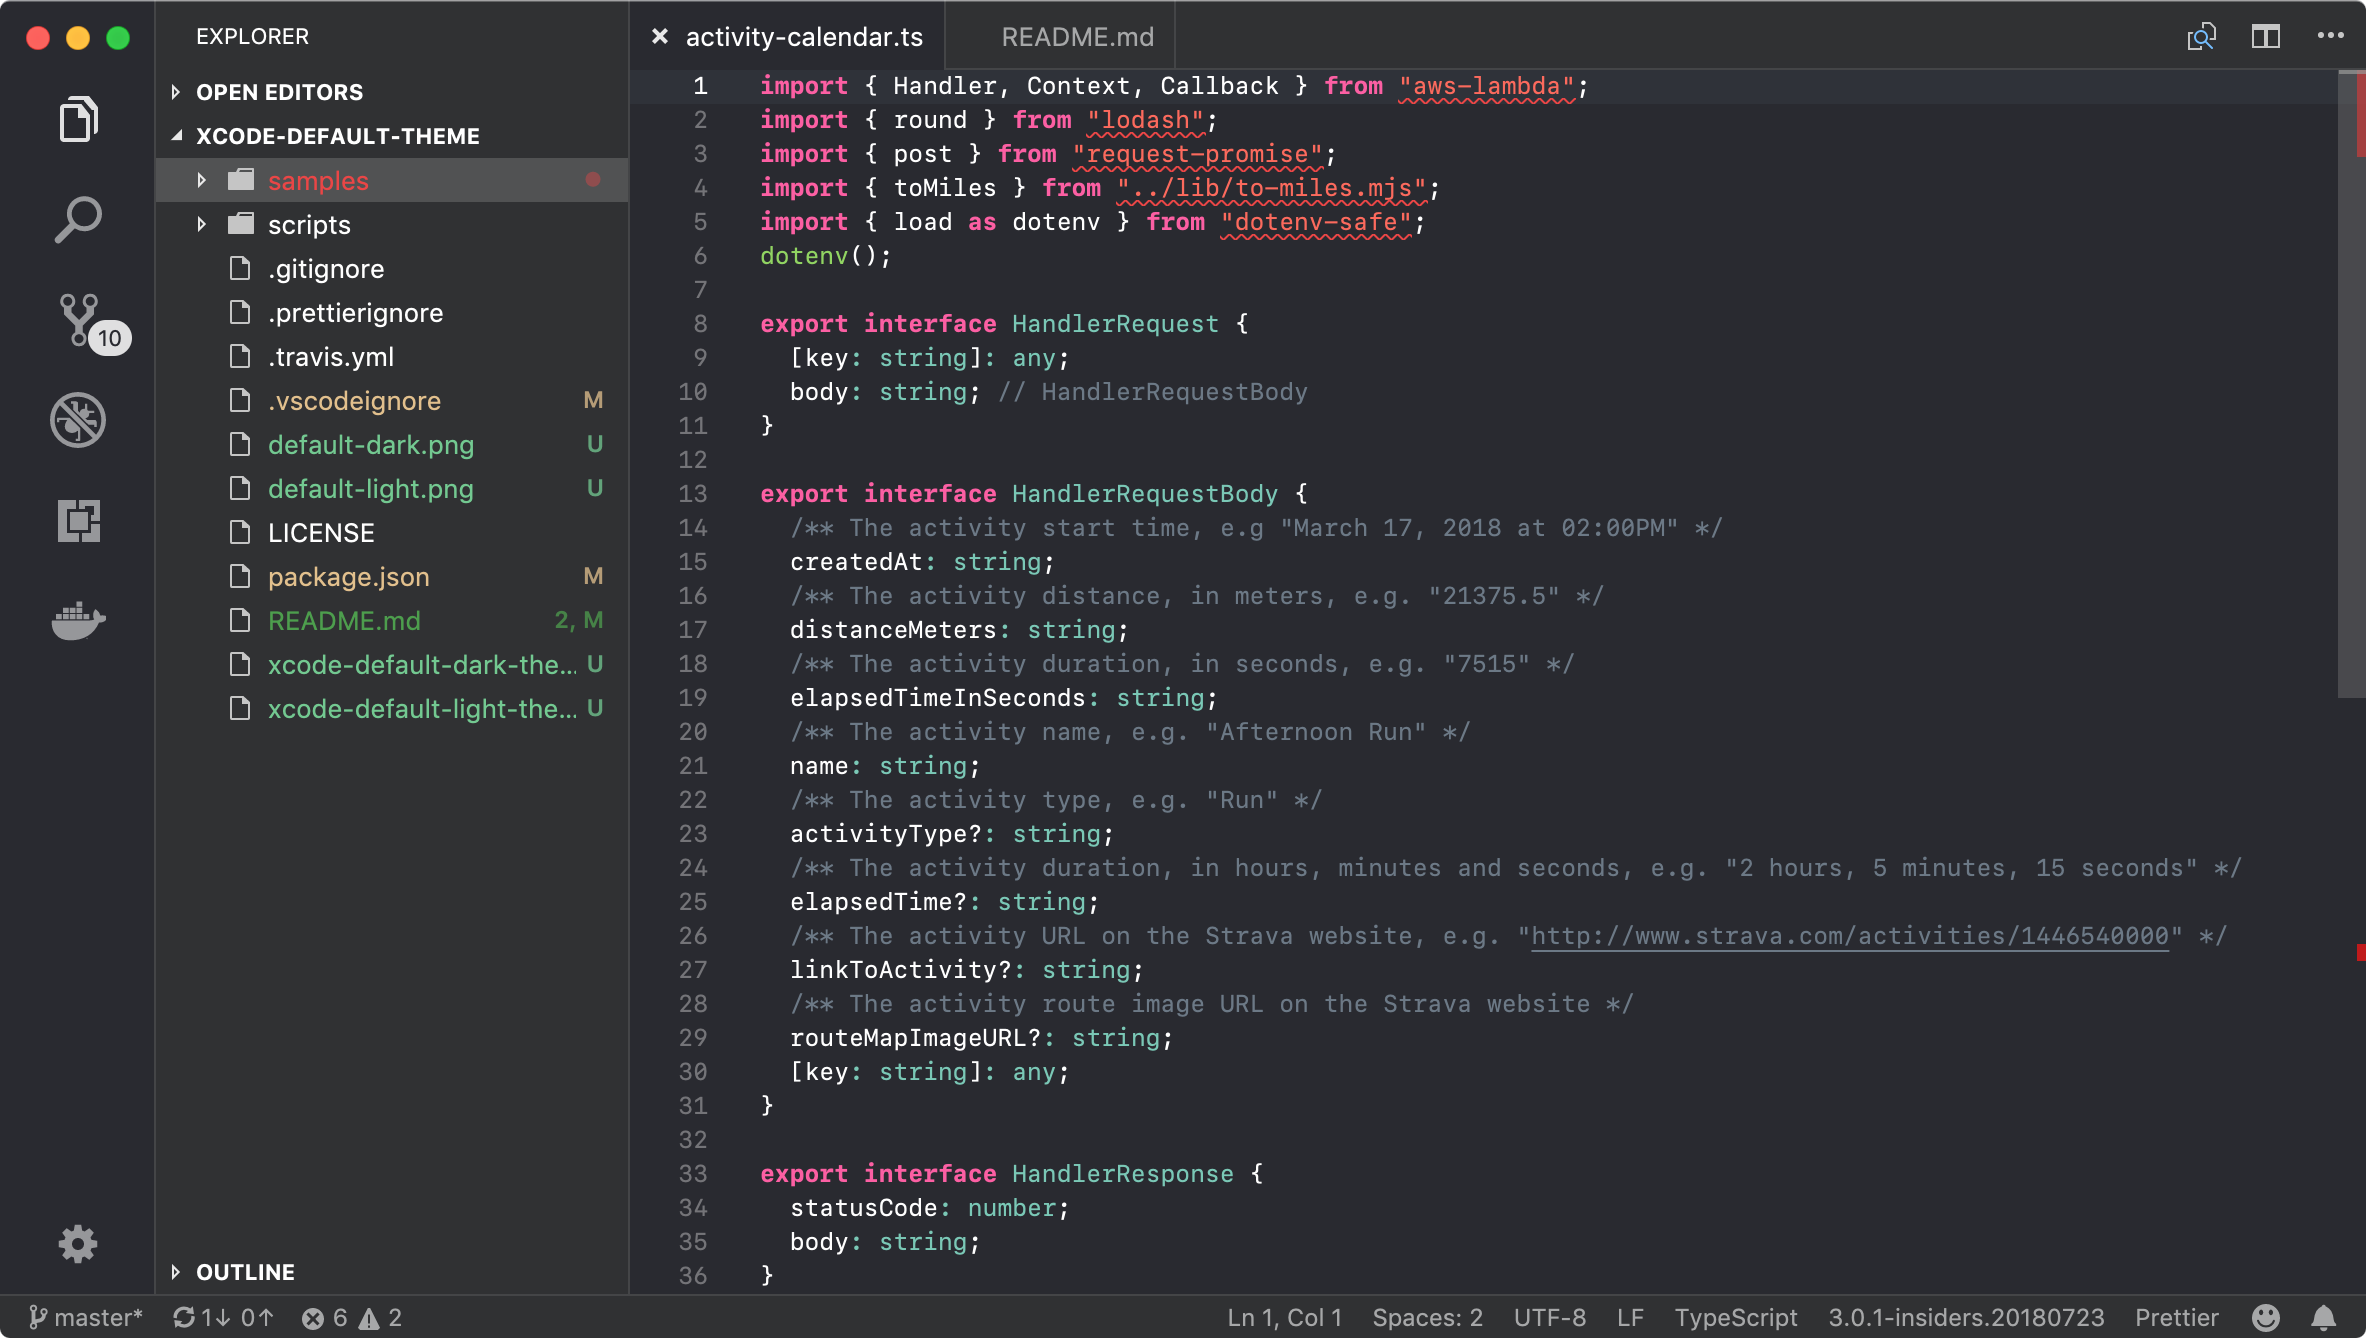
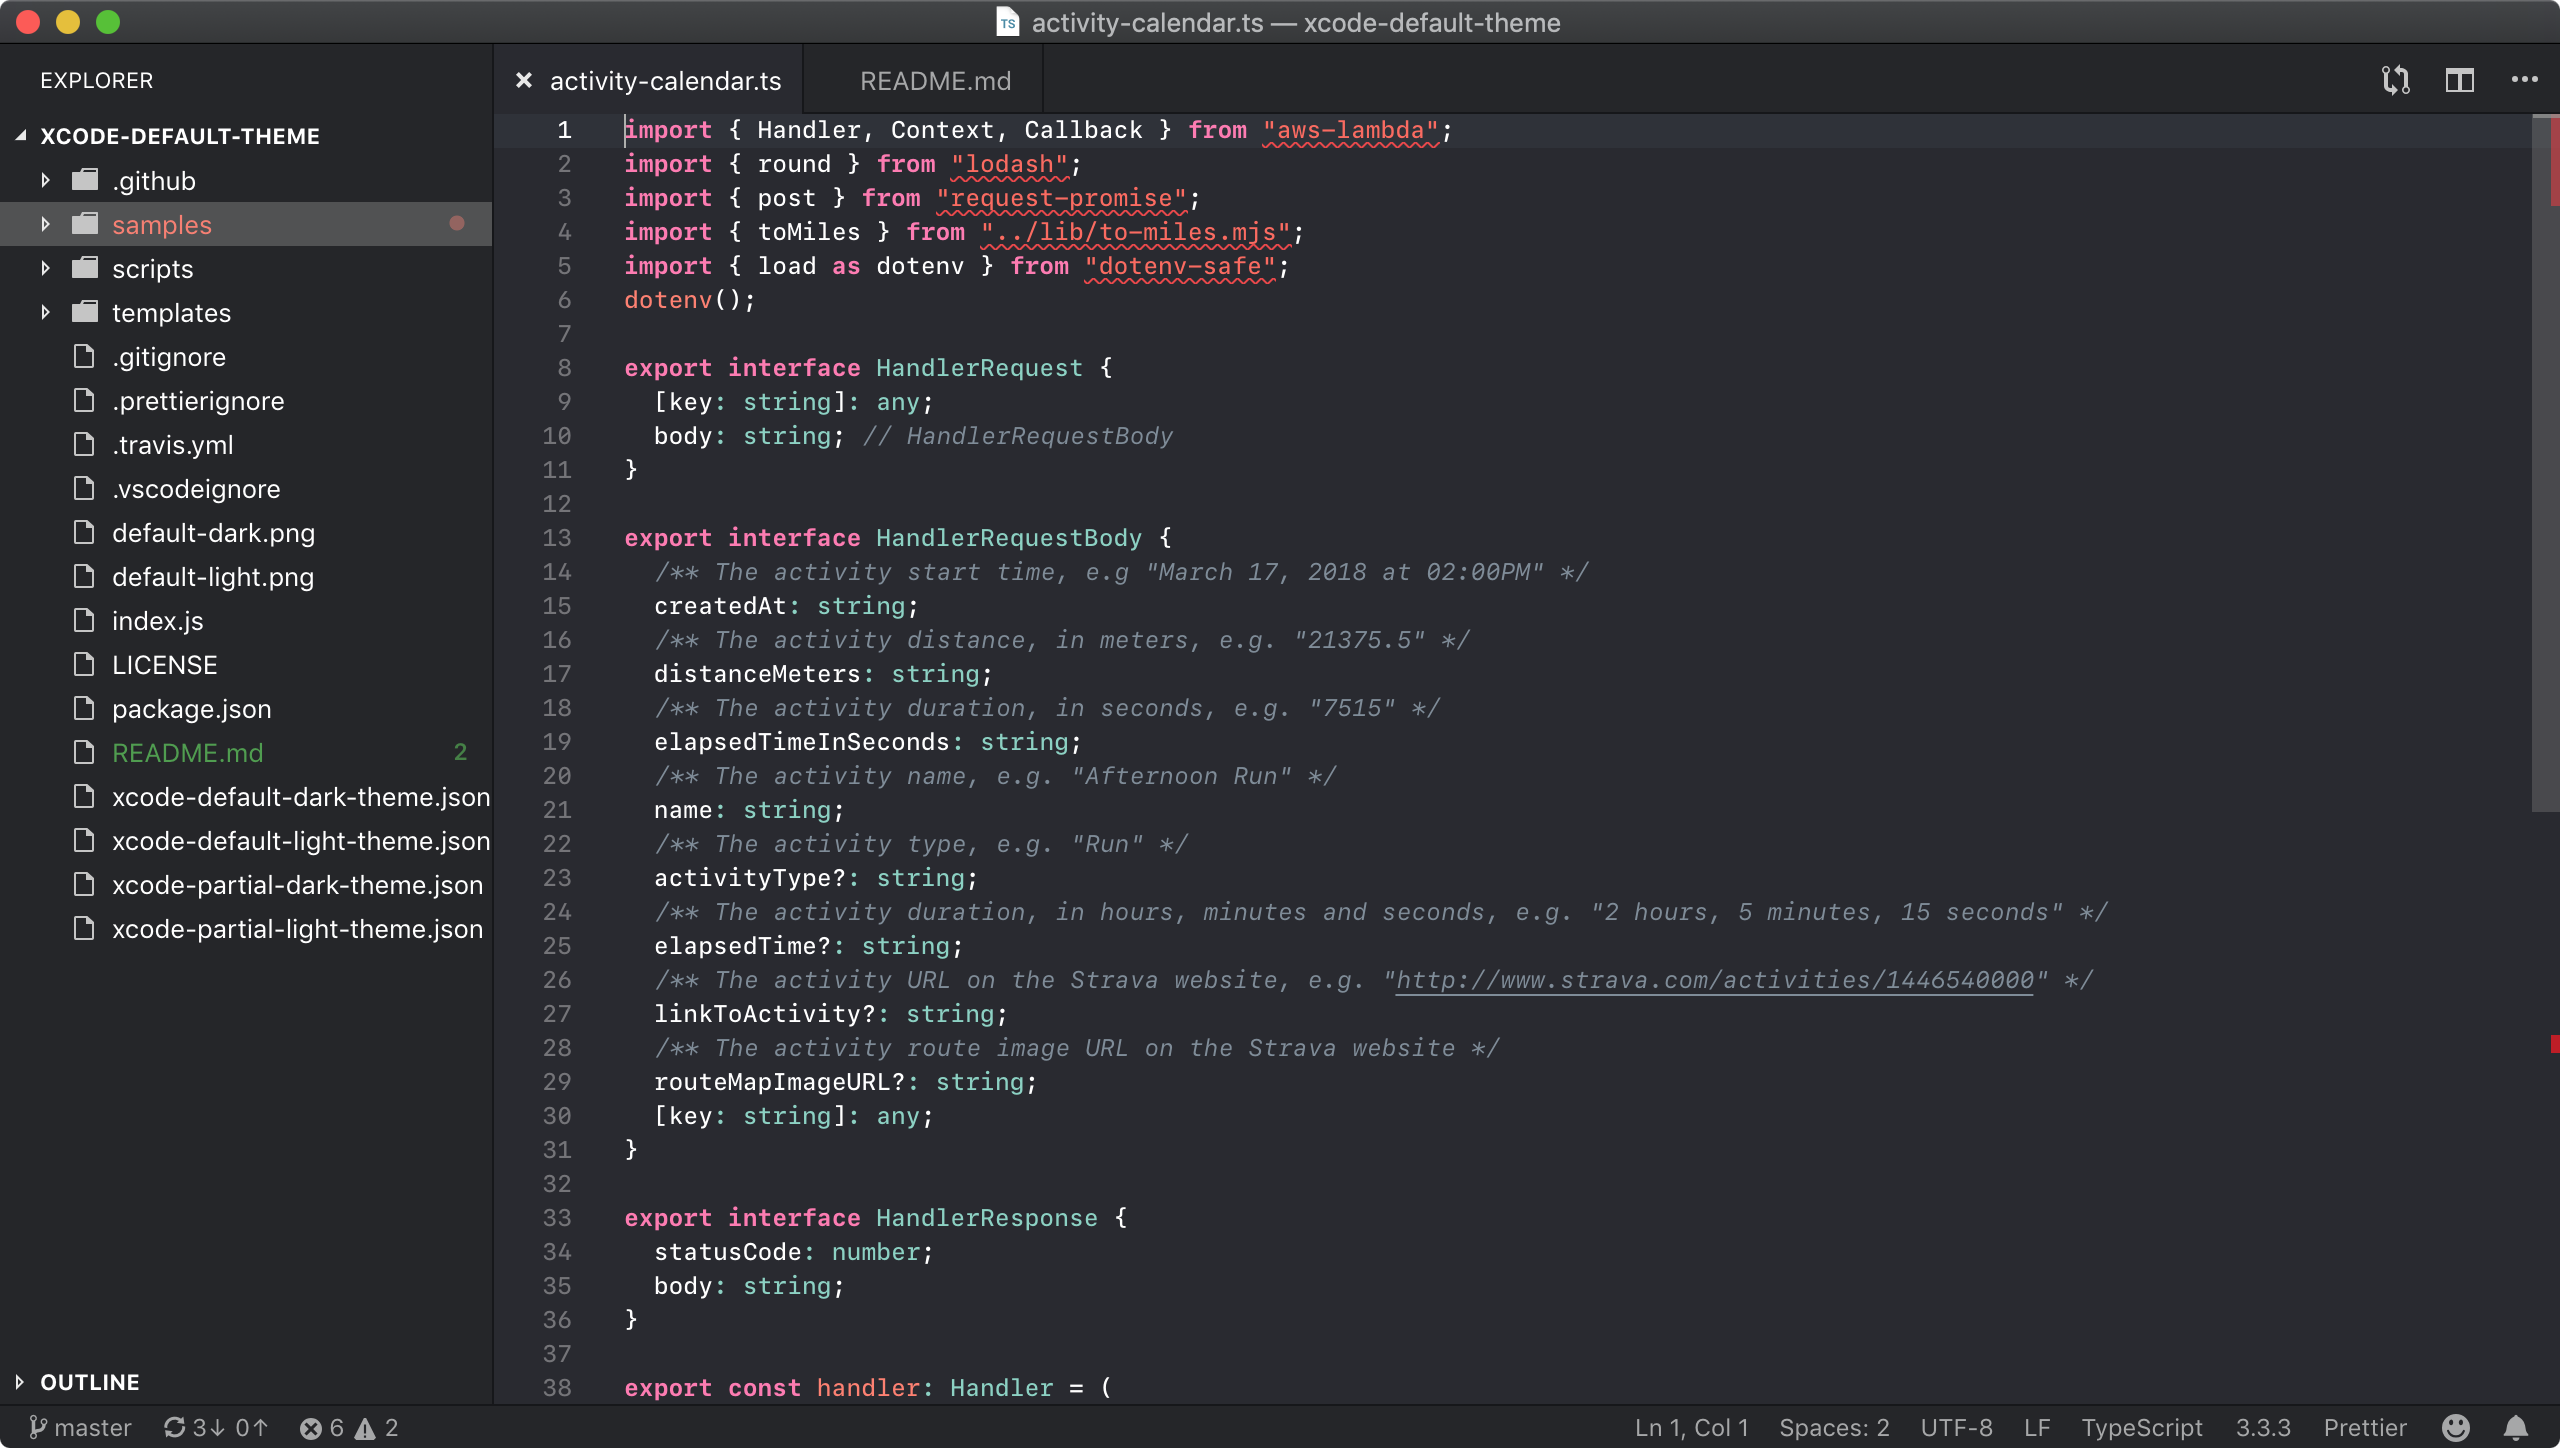
Update screenshots and README. Fixes #4

diff --git a/README.md b/README.md
@@ -2,36 +2,74 @@
 
 [![Visual Studio Marketplace](https://img.shields.io/vscode-marketplace/v/smockle.xcode-default-theme.svg)](https://marketplace.visualstudio.com/items?itemName=smockle.xcode-default-theme)
 
-Brings the colors of the Xcode 'Default (Dark)' and 'Default (Light)' themes to Visual Studio Code
+Brings the colors of the Xcode 'Default (Dark)' and 'Default (Light)' themes to Visual Studio Code.
 
-![Screenshot (Dark)](/default-dark.png?raw=true "Screenshot (Dark)")
-![Screenshot (Light)](/default-light.png?raw=true "Screenshot (Light)")
+## Xcode Default
 
-## Installation
+Matches the default window and syntax colors of Xcode.
 
-1.  Install the [“Titlebar-Less VSCode on macOS” extension](https://marketplace.visualstudio.com/items?itemName=lehni.vscode-titlebar-less-macos)
+![Xcode Default (Dark) Screenshot](/default-dark.png?raw=true "Xcode Default (Dark) Screenshot")
+![Xcode Default (Light) Screenshot](/default-light.png?raw=true "Xcode Default (Light) Screenshot")
 
-2.  Install [this extension](https://marketplace.visualstudio.com/items?itemName=smockle.xcode-default-theme).
+## Xcode Partial
 
-3.  Add the following lines to your `settings.json`:
+Matches the default window colors of Xcode and the default syntax colors of Visual Studio Code (with adapted saturation).
+
+![Xcode Partial (Dark) Screenshot](/partial-dark.png?raw=true "Xcode Partial (Dark) Screenshot")
+![Xcode Partial (Light) Screenshot](/partial-light.png?raw=true "Xcode Partial (Light) Screenshot")
+
+# Recommended Settings
+
+For a more complete theme, add the following lines to your `settings.json`:
 
 ```JSON
 {
   "editor.cursorStyle": "line-thin",
   "editor.fontFamily": "'SF Mono', Menlo, Monaco, 'Courier New', monospace",
+  "editor.fontLigatures": true,
   "editor.fontSize": 12,
+  "editor.fontWeight": "500",
   "editor.lineHeight": 17,
   "terminal.integrated.fontSize": 12,
   "terminal.integrated.lineHeight": 1.23,
   "editor.minimap.enabled": false,
+  "editor.minimap.renderCharacters": false,
   "editor.overviewRulerBorder": false,
   "editor.renderIndentGuides": false,
   "editor.renderLineHighlight": "all",
   "workbench.activityBar.visible": false,
   "workbench.editor.tabCloseButton": "left",
-  "workbench.editor.tabSizing": "shrink",
   "workbench.editor.showIcons": false,
-  "window.nativeTabs": false,
-  "window.titleBarStyle": "custom"
+  "window.nativeTabs": true,
+  "editor.tokenColorCustomizations": {
+    "[Xcode Partial (Light)]": {
+      "textMateRules": [
+        {
+          "scope": "comment",
+          "settings": {
+            "foreground": "#536579",
+            "fontStyle": "italic"
+          }
+        }
+      ]
+    },
+    "[Xcode Partial (Dark)]": {
+      "textMateRules": [
+        {
+          "scope": "source",
+          "settings": {
+            "foreground": "#D4D4D4"
+          }
+        },
+        {
+          "scope": "comment",
+          "settings": {
+            "foreground": "#6C7986",
+            "fontStyle": "italic"
+          }
+        }
+      ]
+    }
+  }
 }
 ```
